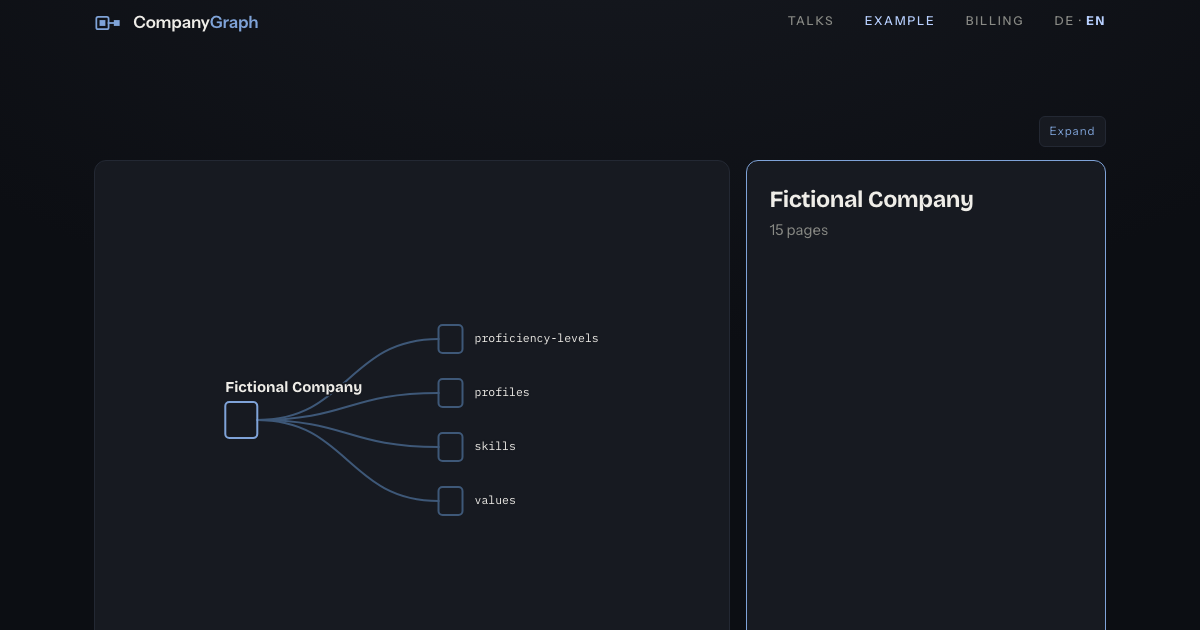
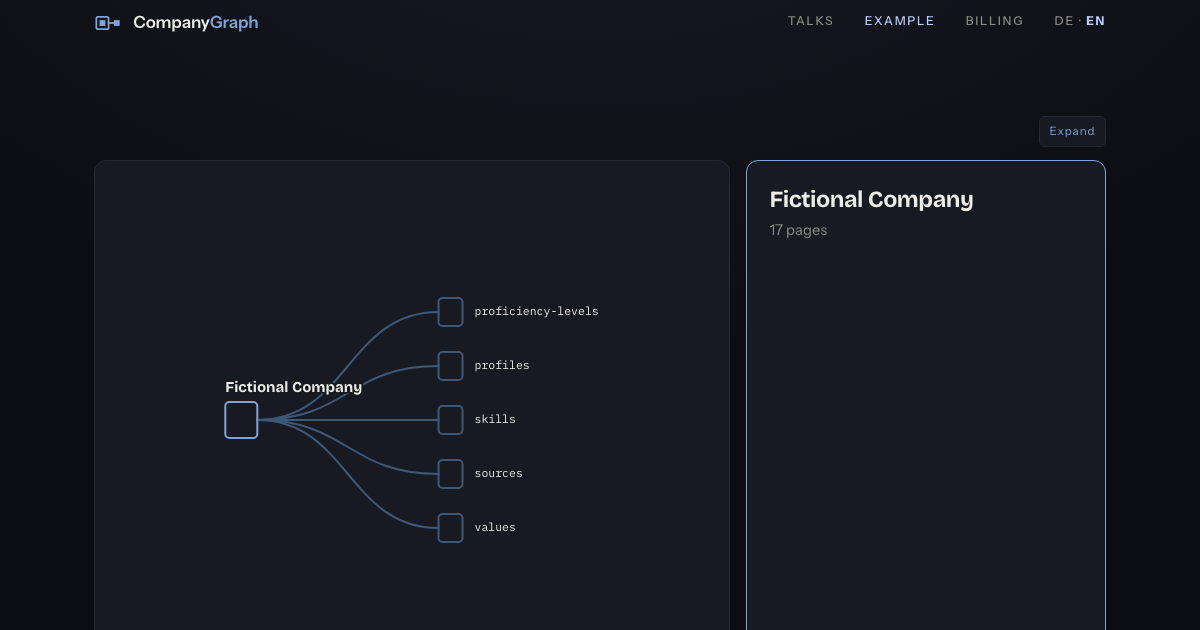
Read a scalar reference as an edge, and show the example with its sources

Changed region(s): [[0.2158, 0.4825, 0.4933, 0.8444], [0.6475, 0.3619, 0.6783, 0.3921]]

diff --git a/example/index.html b/example/index.html
@@ -422,8 +422,8 @@
 })();
 </script>
 
-<!-- example data · 9329e07a1275566d9644ce3eb34068fd31ee7223 -->
-<script type="application/json" id="example-data">{"commit":"9329e07a1275566d9644ce3eb34068fd31ee7223","root":"Fictional Company","types":[{"type":"experience","folder":"experiences","owner":"profile"},{"type":"proficiency-level","folder":"proficiency-levels","owner":null},{"type":"profile","folder":"profiles","owner":null},{"type":"skill","folder":"skills","owner":null},{"type":"value","folder":"values","owner":null}],"entities":[{"id":"proficiency-levels/competent","type":"proficiency-level","name":"Competent","tagline":"Reliable alone. Unsupervised work with a predictable result.","fields":{"rank":"20"},"sections":[{"heading":"What it means","text":"Someone at this level works with it unsupervised and the result is predictable. They recognise\nthe common failure modes, having run into them."}],"owner":null,"path":"example/proficiency-levels/competent.md"},{"id":"proficiency-levels/expert","type":"proficiency-level","name":"Expert","tagline":"Knows the limits. Has worked below the surface, shaped it, or taught it.","fields":{"rank":"40"},"sections":[{"heading":"What it means","text":"Someone at this level knows where it breaks down and where it is simply wrong. They have worked\nbelow its surface, shaped it, or taught it."}],"owner":null,"path":"example/proficiency-levels/expert.md"},{"id":"proficiency-levels/familiar","type":"proficiency-level","name":"Familiar","tagline":"Needs support. Real use, with guidance or frequent reference.","fields":{"rank":"10"},"sections":[{"heading":"What it means","text":"Someone at this level has used it on real work, with guidance or frequent reference. They can\nfollow a conversation about it and make sense of other people's work in it."}],"owner":null,"path":"example/proficiency-levels/familiar.md"},{"id":"proficiency-levels/proficient","type":"proficiency-level","name":"Proficient","tagline":"Exercises judgment. Chooses between alternatives and can say why.","fields":{"rank":"30"},"sections":[{"heading":"What it means","text":"Someone at this level makes judgment calls in it and can explain why the alternatives are\nworse. Other people bring them their questions."}],"owner":null,"path":"example/proficiency-levels/proficient.md"},{"id":"profiles/mira-halvorsen","type":"profile","name":"Mira Halvorsen","tagline":"Backend engineer who ended up owning the parts nobody else wanted to.","fields":{"email":"mira@example.invalid","location":"Bergen"},"sections":[{"heading":"Skills","text":"","table":{"columns":["Skill","Level","Evidence"],"rows":[["Java Programming","Proficient","Owned the JVM services two other teams built on for four years, and was the one called when they stopped."],["Domain-Driven Design","Competent","Split the billing domain into two bounded contexts; the seams have held under two years of change."]]}},{"heading":"Summary","text":"Eight years across two companies, both of them small enough that the boundary between\nbuilding a thing and running it never really existed."}],"owner":null,"path":"example/profiles/mira-halvorsen/mira-halvorsen.md"},{"id":"profiles/mira-halvorsen/experiences/2018-northwind-atelier","type":"experience","name":"Rebuilding the order pipeline","tagline":"Four years replacing a nightly batch with something that ran when the order did.","fields":{"start":"2018-03","end":"2022-01","organisation":"Northwind Atelier","skills":["Java Programming"]},"sections":[{"heading":"Achievements","text":"- Replaced a nightly batch with a pipeline that ran when the order did, taking visibility from\n  the next morning to seconds.\n- Established that the speed-up mattered less than anyone expected, and why — which set the\n  direction for the work that followed."}],"owner":"profiles/mira-halvorsen","path":"example/profiles/mira-halvorsen/experiences/2018-northwind-atelier.md"},{"id":"profiles/mira-halvorsen/experiences/2022-beacon-systems","type":"experience","name":"Splitting the billing domain","tagline":"Ongoing. Taking one service that three teams edited and making it two, each owned by one team.","fields":{"start":"2022-02","organisation":"Beacon Systems","skills":["Java Programming","Domain-Driven Design"]},"sections":[{"heading":"Achievements","text":"- Split one service that three teams edited into two that one team each owns, so the second\n  team stopped waiting on the first to merge.\n- Not finished: the third team is still waiting."}],"owner":"profiles/mira-halvorsen","path":"example/profiles/mira-halvorsen/experiences/2022-beacon-systems.md"},{"id":"profiles/tomas-reyes","type":"profile","name":"Tomas Reyes","tagline":"Product person who learned to read the code so the conversation with engineering stayed honest.","fields":{"email":"tomas@example.invalid","location":"Lisbon"},"sections":[{"heading":"Skills","text":"","table":{"columns":["Skill","Level","Evidence"],"rows":[["Product Discovery","Expert","Killed two of the three features on the 2023 roadmap after twenty customer conversations; the third shipped and is the one customers name."],["Domain-Driven Design","Familiar","Sat in the billing-context sessions and can follow a context map; has never drawn one."],["Java Programming","Familiar","Reads pull requests well enough to ask the right question, and has merged none."]]}},{"heading":"Summary","text":"Six years across the same two companies as the engineers he works with, on the other side of\nthe table: deciding what gets built rather than building it."}],"owner":null,"path":"example/profiles/tomas-reyes/tomas-reyes.md"},{"id":"profiles/tomas-reyes/experiences/2019-northwind-atelier","type":"experience","name":"Finding out what the order pipeline was for","tagline":"Three years learning that the speed-up nobody had asked for was still the right thing to build.","fields":{"start":"2019-06","end":"2022-01","organisation":"Northwind Atelier","skills":["Product Discovery"]},"sections":[{"heading":"Achievements","text":"- Ran the conversations that showed visibility, not speed, was what the pipeline rebuild\n  bought — and rewrote the roadmap around it.\n- Retired a reporting feature with no users, which was harder than shipping one."}],"owner":"profiles/tomas-reyes","path":"example/profiles/tomas-reyes/experiences/2019-northwind-atelier.md"},{"id":"profiles/tomas-reyes/experiences/2022-beacon-systems","type":"experience","name":"Deciding which billing goes first","tagline":"Ongoing. Choosing which of the two billing contexts serves customers first, and saying why.","fields":{"start":"2022-02","organisation":"Beacon Systems","skills":["Product Discovery","Domain-Driven Design"]},"sections":[{"heading":"Achievements","text":"- Ranked the two contexts by what customers asked about in support, not by what was easier to\n  split, and got the order accepted.\n- Not finished: the third team's context has no customer voice yet, and no ranking."}],"owner":"profiles/tomas-reyes","path":"example/profiles/tomas-reyes/experiences/2022-beacon-systems.md"},{"id":"skills/domain-driven-design","type":"skill","name":"Domain-Driven Design","tagline":"Modelling software around the language the business already speaks.","fields":{"group":"Software Design"},"sections":[{"heading":"In practice","text":"Refusing a name that only makes sense inside the codebase, and holding the boundary when a\nsecond team wants to reach across it."}],"owner":null,"path":"example/skills/domain-driven-design.md"},{"id":"skills/java-programming","type":"skill","name":"Java Programming","tagline":"Building and maintaining server-side systems on the JVM.","fields":{"group":"Programming Languages"},"sections":[{"heading":"In practice","text":"Writing services that other teams depend on, and being the person who reads the stack trace\nwhen one of them stops."}],"owner":null,"path":"example/skills/java-programming.md"},{"id":"skills/product-discovery","type":"skill","name":"Product Discovery","tagline":"Finding out what is worth building before building it.","fields":{"group":"Product"},"sections":[{"heading":"In practice","text":"Talking to the people who would use a thing before the first line is written, and being\nwilling to hear that the answer is nobody."}],"owner":null,"path":"example/skills/product-discovery.md"},{"id":"values/craftsmanship","type":"value","name":"Craftsmanship","tagline":"We would rather ship one thing that holds up than three that need watching.","fields":{},"sections":[{"heading":"In practice","text":"Following it looks like refusing a deadline that can only be met by leaving something\nhalf-built, and saying so early enough that the date can move.\n\nBreaking it looks like shipping on time and privately knowing which part will be rewritten\nwithin the quarter."}],"owner":null,"path":"example/values/craftsmanship.md"},{"id":"values/say-the-hard-thing","type":"value","name":"Say The Hard Thing","tagline":"Disagreement that arrives after the decision is not disagreement, it is commentary.","fields":{},"sections":[{"heading":"In practice","text":"Following it looks like naming the objection in the room where the choice is being made, once\nand plainly, and then committing to whatever is decided.\n\nBreaking it looks like agreeing in the meeting and reopening the question in a side channel\nafterwards."}],"owner":null,"path":"example/values/say-the-hard-thing.md"}],"edges":[{"from":"profiles/mira-halvorsen/experiences/2018-northwind-atelier","to":"skills/java-programming","via":"skills","attrs":{}},{"from":"profiles/mira-halvorsen/experiences/2022-beacon-systems","to":"skills/domain-driven-design","via":"skills","attrs":{}},{"from":"profiles/mira-halvorsen/experiences/2022-beacon-systems","to":"skills/java-programming","via":"skills","attrs":{}},{"from":"profiles/mira-halvorsen","to":"skills/domain-driven-design","via":"Skills.Skill","attrs":{"Level":"proficiency-levels/competent","Evidence":"Split the billing domain into two bounded contexts; the seams have held under two years of change."}},{"from":"profiles/mira-halvorsen","to":"skills/java-programming","via":"Skills.Skill","attrs":{"Level":"proficiency-levels/proficient","Evidence":"Owned the JVM services two other teams built on for four years, and was the one called when they stopped."}},{"from":"profiles/tomas-reyes/experiences/2019-northwind-atelier","to":"skills/product-discovery","via":"skills","attrs":{}},{"from":"profiles/tomas-reyes/experiences/2022-beacon-systems","to":"skills/domain-driven-design","via":"skills","attrs":{}},{"from":"profiles/tomas-reyes/experiences/2022-beacon-systems","to":"skills/product-discovery","via":"skills","attrs":{}},{"from":"profiles/tomas-reyes","to":"skills/domain-driven-design","via":"Skills.Skill","attrs":{"Level":"proficiency-levels/familiar","Evidence":"Sat in the billing-context sessions and can follow a context map; has never drawn one."}},{"from":"profiles/tomas-reyes","to":"skills/java-programming","via":"Skills.Skill","attrs":{"Level":"proficiency-levels/familiar","Evidence":"Reads pull requests well enough to ask the right question, and has merged none."}},{"from":"profiles/tomas-reyes","to":"skills/product-discovery","via":"Skills.Skill","attrs":{"Level":"proficiency-levels/expert","Evidence":"Killed two of the three features on the 2023 roadmap after twenty customer conversations; the third shipped and is the one customers name."}}]}</script>
+<!-- example data · 287fbbe3d20b3611dc9a87dd252e09d340caeaef -->
+<script type="application/json" id="example-data">{"commit":"287fbbe3d20b3611dc9a87dd252e09d340caeaef","root":"Fictional Company","types":[{"type":"experience","folder":"experiences","owner":"profile"},{"type":"proficiency-level","folder":"proficiency-levels","owner":null},{"type":"profile","folder":"profiles","owner":null},{"type":"skill","folder":"skills","owner":null},{"type":"source","folder":"sources","owner":null},{"type":"value","folder":"values","owner":null}],"entities":[{"id":"proficiency-levels/competent","type":"proficiency-level","name":"Competent","tagline":"Reliable alone. Unsupervised work with a predictable result.","fields":{"source":"Local","rank":"20"},"sections":[{"heading":"What it means","text":"Someone at this level works with it unsupervised and the result is predictable. They recognise\nthe common failure modes, having run into them."}],"owner":null,"path":"example/proficiency-levels/competent.md"},{"id":"proficiency-levels/expert","type":"proficiency-level","name":"Expert","tagline":"Knows the limits. Has worked below the surface, shaped it, or taught it.","fields":{"source":"Local","rank":"40"},"sections":[{"heading":"What it means","text":"Someone at this level knows where it breaks down and where it is simply wrong. They have worked\nbelow its surface, shaped it, or taught it."}],"owner":null,"path":"example/proficiency-levels/expert.md"},{"id":"proficiency-levels/familiar","type":"proficiency-level","name":"Familiar","tagline":"Needs support. Real use, with guidance or frequent reference.","fields":{"source":"Local","rank":"10"},"sections":[{"heading":"What it means","text":"Someone at this level has used it on real work, with guidance or frequent reference. They can\nfollow a conversation about it and make sense of other people's work in it."}],"owner":null,"path":"example/proficiency-levels/familiar.md"},{"id":"proficiency-levels/proficient","type":"proficiency-level","name":"Proficient","tagline":"Exercises judgment. Chooses between alternatives and can say why.","fields":{"source":"Local","rank":"30"},"sections":[{"heading":"What it means","text":"Someone at this level makes judgment calls in it and can explain why the alternatives are\nworse. Other people bring them their questions."}],"owner":null,"path":"example/proficiency-levels/proficient.md"},{"id":"profiles/mira-halvorsen","type":"profile","name":"Mira Halvorsen","tagline":"Backend engineer who ended up owning the parts nobody else wanted to.","fields":{"source":"Google Workspace","email":"mira@example.invalid","location":"Bergen"},"sections":[{"heading":"Skills","text":"","table":{"columns":["Skill","Level","Evidence"],"rows":[["Java Programming","Proficient","Owned the JVM services two other teams built on for four years, and was the one called when they stopped."],["Domain-Driven Design","Competent","Split the billing domain into two bounded contexts; the seams have held under two years of change."]]}},{"heading":"Summary","text":"Eight years across two companies, both of them small enough that the boundary between\nbuilding a thing and running it never really existed."}],"owner":null,"path":"example/profiles/mira-halvorsen/mira-halvorsen.md"},{"id":"profiles/mira-halvorsen/experiences/2018-northwind-atelier","type":"experience","name":"Rebuilding the order pipeline","tagline":"Four years replacing a nightly batch with something that ran when the order did.","fields":{"source":"Local","start":"2018-03","end":"2022-01","organisation":"Northwind Atelier","skills":["Java Programming"]},"sections":[{"heading":"Achievements","text":"- Replaced a nightly batch with a pipeline that ran when the order did, taking visibility from\n  the next morning to seconds.\n- Established that the speed-up mattered less than anyone expected, and why — which set the\n  direction for the work that followed."}],"owner":"profiles/mira-halvorsen","path":"example/profiles/mira-halvorsen/experiences/2018-northwind-atelier.md"},{"id":"profiles/mira-halvorsen/experiences/2022-beacon-systems","type":"experience","name":"Splitting the billing domain","tagline":"Ongoing. Taking one service that three teams edited and making it two, each owned by one team.","fields":{"source":"Local","start":"2022-02","organisation":"Beacon Systems","skills":["Java Programming","Domain-Driven Design"]},"sections":[{"heading":"Achievements","text":"- Split one service that three teams edited into two that one team each owns, so the second\n  team stopped waiting on the first to merge.\n- Not finished: the third team is still waiting."}],"owner":"profiles/mira-halvorsen","path":"example/profiles/mira-halvorsen/experiences/2022-beacon-systems.md"},{"id":"profiles/tomas-reyes","type":"profile","name":"Tomas Reyes","tagline":"Product person who learned to read the code so the conversation with engineering stayed honest.","fields":{"source":"Google Workspace","email":"tomas@example.invalid","location":"Lisbon"},"sections":[{"heading":"Skills","text":"","table":{"columns":["Skill","Level","Evidence"],"rows":[["Product Discovery","Expert","Killed two of the three features on the 2023 roadmap after twenty customer conversations; the third shipped and is the one customers name."],["Domain-Driven Design","Familiar","Sat in the billing-context sessions and can follow a context map; has never drawn one."],["Java Programming","Familiar","Reads pull requests well enough to ask the right question, and has merged none."]]}},{"heading":"Summary","text":"Six years across the same two companies as the engineers he works with, on the other side of\nthe table: deciding what gets built rather than building it."}],"owner":null,"path":"example/profiles/tomas-reyes/tomas-reyes.md"},{"id":"profiles/tomas-reyes/experiences/2019-northwind-atelier","type":"experience","name":"Finding out what the order pipeline was for","tagline":"Three years learning that the speed-up nobody had asked for was still the right thing to build.","fields":{"source":"Local","start":"2019-06","end":"2022-01","organisation":"Northwind Atelier","skills":["Product Discovery"]},"sections":[{"heading":"Achievements","text":"- Ran the conversations that showed visibility, not speed, was what the pipeline rebuild\n  bought — and rewrote the roadmap around it.\n- Retired a reporting feature with no users, which was harder than shipping one."}],"owner":"profiles/tomas-reyes","path":"example/profiles/tomas-reyes/experiences/2019-northwind-atelier.md"},{"id":"profiles/tomas-reyes/experiences/2022-beacon-systems","type":"experience","name":"Deciding which billing goes first","tagline":"Ongoing. Choosing which of the two billing contexts serves customers first, and saying why.","fields":{"source":"Local","start":"2022-02","organisation":"Beacon Systems","skills":["Product Discovery","Domain-Driven Design"]},"sections":[{"heading":"Achievements","text":"- Ranked the two contexts by what customers asked about in support, not by what was easier to\n  split, and got the order accepted.\n- Not finished: the third team's context has no customer voice yet, and no ranking."}],"owner":"profiles/tomas-reyes","path":"example/profiles/tomas-reyes/experiences/2022-beacon-systems.md"},{"id":"skills/domain-driven-design","type":"skill","name":"Domain-Driven Design","tagline":"Modelling software around the language the business already speaks.","fields":{"source":"Local","group":"Software Design"},"sections":[{"heading":"In practice","text":"Refusing a name that only makes sense inside the codebase, and holding the boundary when a\nsecond team wants to reach across it."}],"owner":null,"path":"example/skills/domain-driven-design.md"},{"id":"skills/java-programming","type":"skill","name":"Java Programming","tagline":"Building and maintaining server-side systems on the JVM.","fields":{"source":"Local","group":"Programming Languages"},"sections":[{"heading":"In practice","text":"Writing services that other teams depend on, and being the person who reads the stack trace\nwhen one of them stops."}],"owner":null,"path":"example/skills/java-programming.md"},{"id":"skills/product-discovery","type":"skill","name":"Product Discovery","tagline":"Finding out what is worth building before building it.","fields":{"source":"Local","group":"Product"},"sections":[{"heading":"In practice","text":"Talking to the people who would use a thing before the first line is written, and being\nwilling to hear that the answer is nobody."}],"owner":null,"path":"example/skills/product-discovery.md"},{"id":"sources/google-workspace","type":"source","name":"Google Workspace","tagline":"The company's directory and documents; people and groups are synced from here.","fields":{"url":"https://workspace.google.com/"},"sections":[],"owner":null,"path":"example/sources/google-workspace.md"},{"id":"sources/local","type":"source","name":"Local","tagline":"Written and kept in this repository; nothing syncs it.","fields":{},"sections":[],"owner":null,"path":"example/sources/local.md"},{"id":"values/craftsmanship","type":"value","name":"Craftsmanship","tagline":"We would rather ship one thing that holds up than three that need watching.","fields":{"source":"Local"},"sections":[{"heading":"In practice","text":"Following it looks like refusing a deadline that can only be met by leaving something\nhalf-built, and saying so early enough that the date can move.\n\nBreaking it looks like shipping on time and privately knowing which part will be rewritten\nwithin the quarter."}],"owner":null,"path":"example/values/craftsmanship.md"},{"id":"values/say-the-hard-thing","type":"value","name":"Say The Hard Thing","tagline":"Disagreement that arrives after the decision is not disagreement, it is commentary.","fields":{"source":"Local"},"sections":[{"heading":"In practice","text":"Following it looks like naming the objection in the room where the choice is being made, once\nand plainly, and then committing to whatever is decided.\n\nBreaking it looks like agreeing in the meeting and reopening the question in a side channel\nafterwards."}],"owner":null,"path":"example/values/say-the-hard-thing.md"}],"edges":[{"from":"proficiency-levels/competent","to":"sources/local","via":"source","attrs":{}},{"from":"proficiency-levels/expert","to":"sources/local","via":"source","attrs":{}},{"from":"proficiency-levels/familiar","to":"sources/local","via":"source","attrs":{}},{"from":"proficiency-levels/proficient","to":"sources/local","via":"source","attrs":{}},{"from":"profiles/mira-halvorsen/experiences/2018-northwind-atelier","to":"skills/java-programming","via":"skills","attrs":{}},{"from":"profiles/mira-halvorsen/experiences/2018-northwind-atelier","to":"sources/local","via":"source","attrs":{}},{"from":"profiles/mira-halvorsen/experiences/2022-beacon-systems","to":"skills/domain-driven-design","via":"skills","attrs":{}},{"from":"profiles/mira-halvorsen/experiences/2022-beacon-systems","to":"skills/java-programming","via":"skills","attrs":{}},{"from":"profiles/mira-halvorsen/experiences/2022-beacon-systems","to":"sources/local","via":"source","attrs":{}},{"from":"profiles/mira-halvorsen","to":"skills/domain-driven-design","via":"Skills.Skill","attrs":{"Level":"proficiency-levels/competent","Evidence":"Split the billing domain into two bounded contexts; the seams have held under two years of change."}},{"from":"profiles/mira-halvorsen","to":"skills/java-programming","via":"Skills.Skill","attrs":{"Level":"proficiency-levels/proficient","Evidence":"Owned the JVM services two other teams built on for four years, and was the one called when they stopped."}},{"from":"profiles/mira-halvorsen","to":"sources/google-workspace","via":"source","attrs":{}},{"from":"profiles/tomas-reyes/experiences/2019-northwind-atelier","to":"skills/product-discovery","via":"skills","attrs":{}},{"from":"profiles/tomas-reyes/experiences/2019-northwind-atelier","to":"sources/local","via":"source","attrs":{}},{"from":"profiles/tomas-reyes/experiences/2022-beacon-systems","to":"skills/domain-driven-design","via":"skills","attrs":{}},{"from":"profiles/tomas-reyes/experiences/2022-beacon-systems","to":"skills/product-discovery","via":"skills","attrs":{}},{"from":"profiles/tomas-reyes/experiences/2022-beacon-systems","to":"sources/local","via":"source","attrs":{}},{"from":"profiles/tomas-reyes","to":"skills/domain-driven-design","via":"Skills.Skill","attrs":{"Level":"proficiency-levels/familiar","Evidence":"Sat in the billing-context sessions and can follow a context map; has never drawn one."}},{"from":"profiles/tomas-reyes","to":"skills/java-programming","via":"Skills.Skill","attrs":{"Level":"proficiency-levels/familiar","Evidence":"Reads pull requests well enough to ask the right question, and has merged none."}},{"from":"profiles/tomas-reyes","to":"skills/product-discovery","via":"Skills.Skill","attrs":{"Level":"proficiency-levels/expert","Evidence":"Killed two of the three features on the 2023 roadmap after twenty customer conversations; the third shipped and is the one customers name."}},{"from":"profiles/tomas-reyes","to":"sources/google-workspace","via":"source","attrs":{}},{"from":"skills/domain-driven-design","to":"sources/local","via":"source","attrs":{}},{"from":"skills/java-programming","to":"sources/local","via":"source","attrs":{}},{"from":"skills/product-discovery","to":"sources/local","via":"source","attrs":{}},{"from":"values/craftsmanship","to":"sources/local","via":"source","attrs":{}},{"from":"values/say-the-hard-thing","to":"sources/local","via":"source","attrs":{}}]}</script>
 <!-- /example data -->
 
 <script src="d3.v7.min.js"></script>
